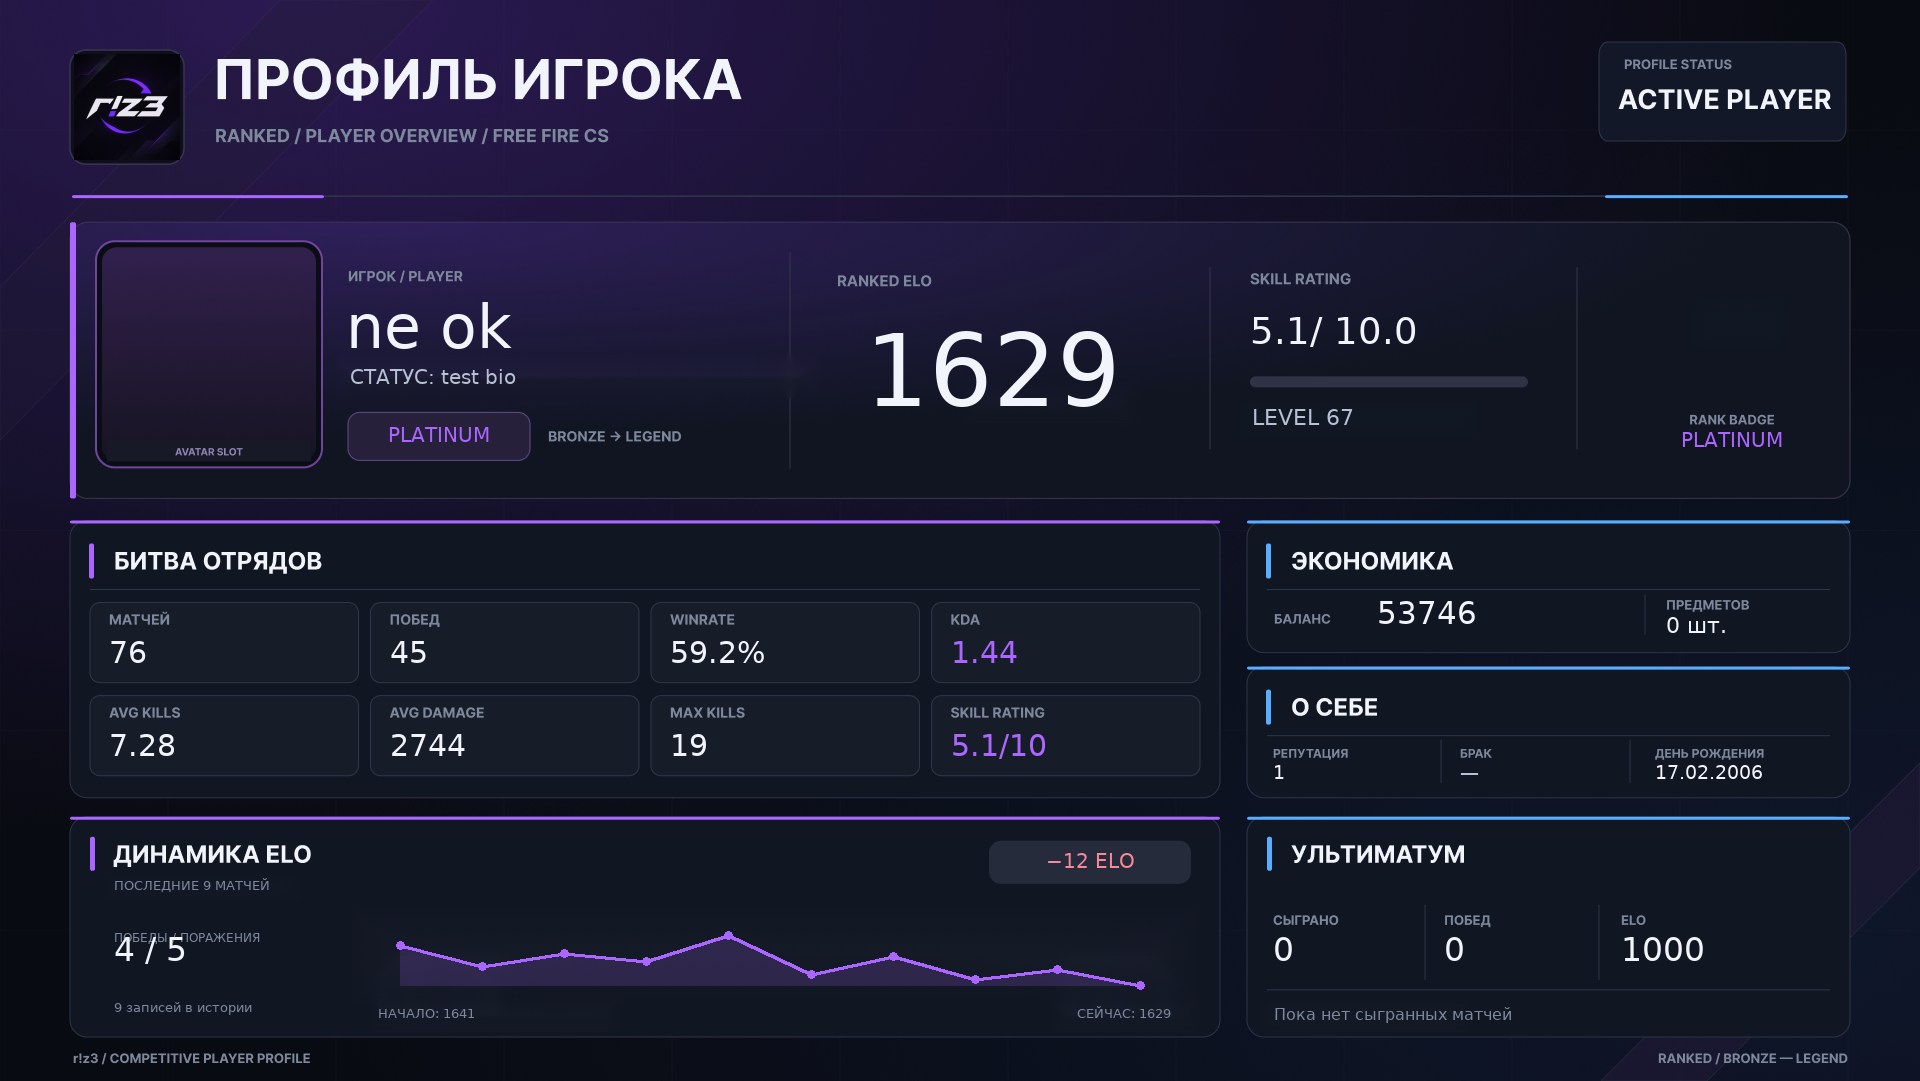
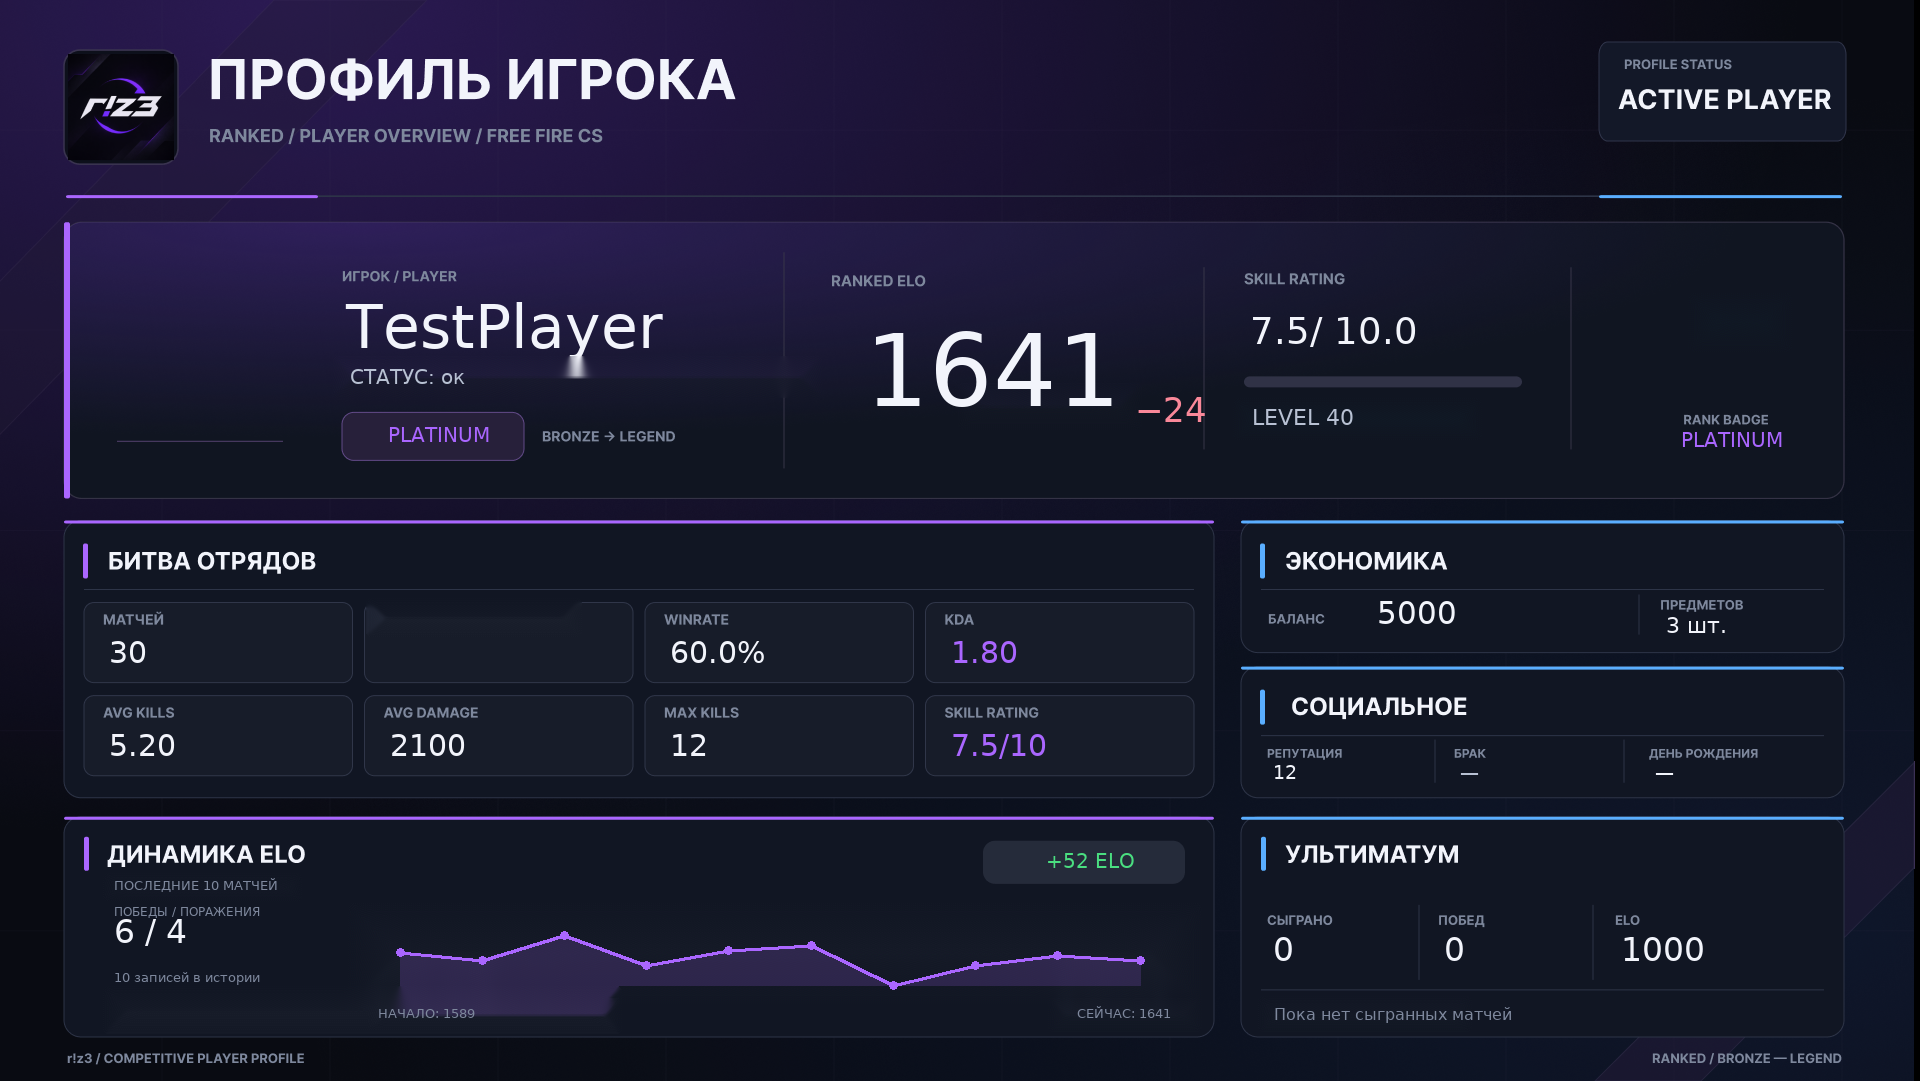
Profile card: fix ELO graph line, show last ELO change
- Graph: straight polyline instead of joint="curve" (curve overshoot
  made it look like a blob instead of a line)
- Last ELO change drawn right of current ELO: green +N, red -N,
  muted +0; position computed from ELO text width

Generated with [Devin](https://devin.ai)

diff --git a/utils/profile_renderer.py b/utils/profile_renderer.py
@@ -127,8 +127,21 @@ def render_profile_png(data: dict, avatar_png: bytes | None = None,
     # RANKED ELO — крупное число; под ним в шаблоне статичная подпись
     # «ПОСЛЕДНИХ МАТЧЕЙ», в example она затёрта — удаляем зону и рисуем ELO
     _inpaint(img, (960, 385, 1140, 428), radius=6)
-    _text(draw, (993, 406), _fmt(data.get("elo", 1000)), 100, C_TEXT,
-          anchor="ms")
+    elo_str = _fmt(data.get("elo", 1000))
+    _text(draw, (993, 406), elo_str, 100, C_TEXT, anchor="ms")
+
+    # Последнее изменение ELO сразу справа от текущего значения:
+    # плюс — зелёный, минус — красный, ноль — приглушённый
+    last_d = int(data.get("last_elo_change") or 0)
+    if last_d > 0:
+        d_str, d_color = f"+{last_d}", C_GREEN
+    elif last_d < 0:
+        d_str, d_color = f"−{abs(last_d)}", C_DELTA_NEG
+    else:
+        d_str, d_color = "+0", C_MUTED
+    elo_w = draw.textlength(elo_str, font=_font(100))
+    delta_x = min(993 + elo_w / 2 + 14, 1240)
+    _text(draw, (delta_x, 410), d_str, 34, d_color, anchor="lm")
 
     # Skill Rating — пустой слот
     sr = data.get("skill_rating", 0.0)
@@ -228,7 +241,8 @@ def render_profile_png(data: dict, avatar_png: bytes | None = None,
             od = ImageDraw.Draw(overlay)
             area = pts + [(pts[-1][0], py1), (pts[0][0], py1)]
             od.polygon(area, fill=(*C_VIOLET, 45))
-            od.line(pts, fill=(*C_VIOLET, 255), width=4, joint="curve")
+            # Прямая полилиния — joint="curve" давал петли («фигуру»)
+            od.line(pts, fill=(*C_VIOLET, 255), width=4)
             for x, y in pts:
                 od.ellipse([x - 4, y - 4, x + 4, y + 4],
                            fill=(*C_VIOLET, 255))
